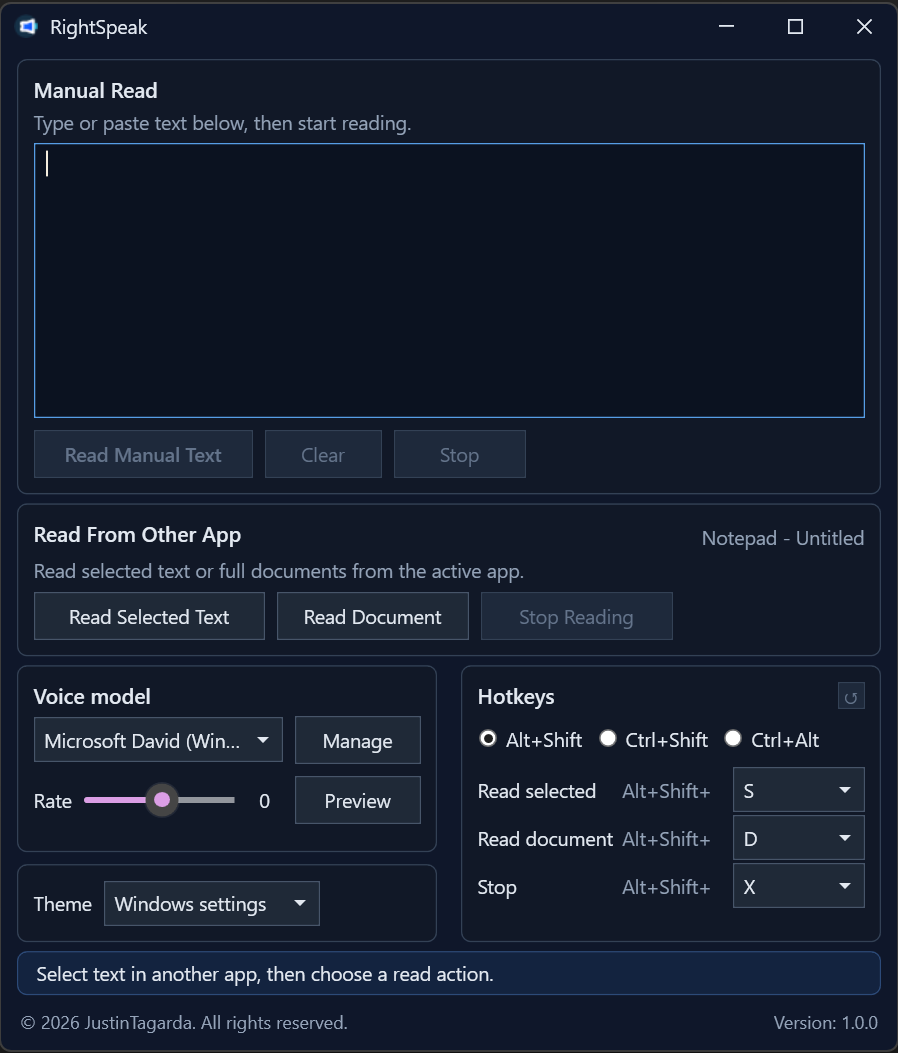
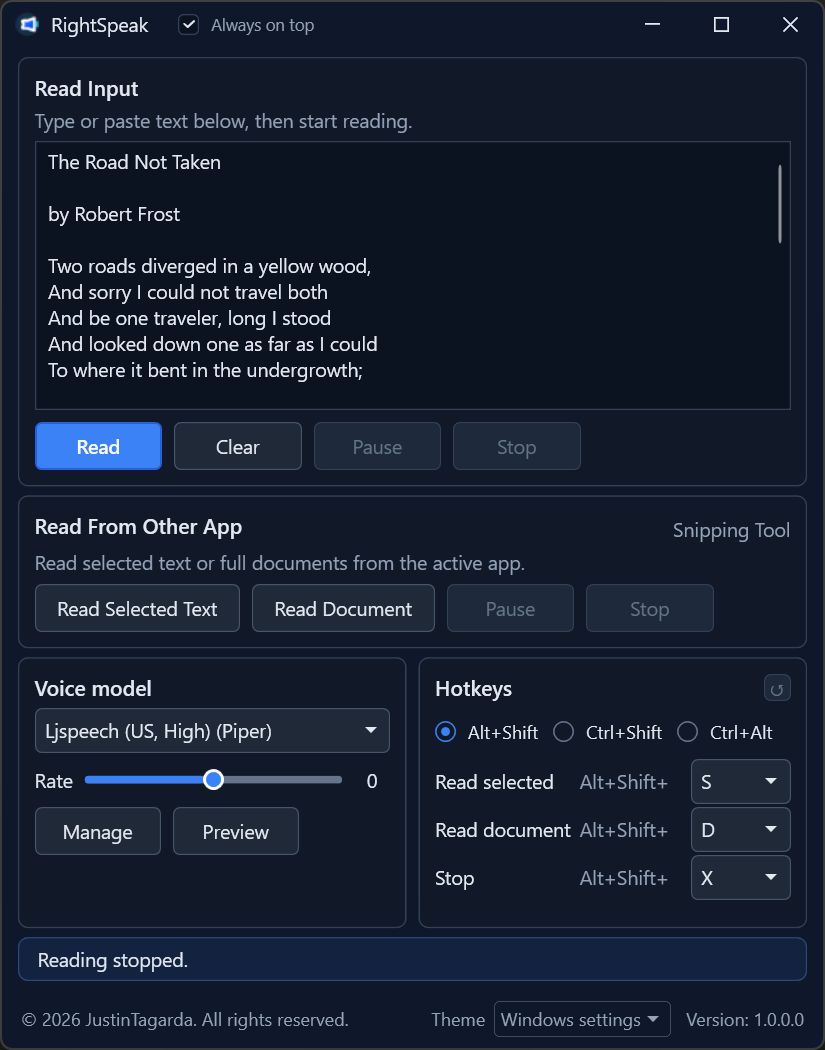
refactor: tighten featured project copy and refresh RightSpeak screenshots

Changed region(s): [[0.0, 0.0, 1.0, 1.0], [0.5455, 0.9448, 0.8182, 1.0], [0.3333, 0.8533, 0.3636, 0.8838]]

diff --git a/src/App.tsx b/src/App.tsx
@@ -68,17 +68,17 @@ const data = {
       featured: true,
       title: "RightSpeak",
       subtitle:
-        "Windows desktop text-to-speech utility that reads selected text with low friction, using reliable retrieval fallbacks, global hotkeys, tray quick actions, and configurable voice settings.",
+        "Listen instead of reading. RightSpeak brings selected text, supported documents, and pasted content to life with fast hotkeys, smooth controls, and natural voice options built for Windows.",
       browserLabel: "apps.microsoft.com",
       coverImage: rightspeakScreenshot01,
       coverAlt: "RightSpeak application screenshot",
       galleryImages: [rightspeakScreenshot01, rightspeakScreenshot02, rightspeakScreenshot03],
       bullets: [
-        "Reads selected text from other apps with staged retrieval fallbacks.",
-        "Supports manual text, selected-text, and document reading.",
-        "Provides global hotkeys, tray actions, and quick stop controls.",
-        "Supports downloadable voice models and preferred voice selection.",
-        "Includes speech-rate control, themes, and local diagnostics.",
+        "Read pasted, selected, and supported document text aloud.",
+        "Start fast with hotkeys and tray quick actions.",
+        "Control playback with pause, resume, cancel, and stop.",
+        "Choose voices, adjust speed, and manage Piper models.",
+        "Stay focused with a lightweight, always-on-top Windows design.",
       ],
       stack: ["WPF", ".NET 10", "C#", "MVVM", "Win32 interop", "UI Automation"],
       primaryLinkLabel: "Microsoft Store",
@@ -104,10 +104,10 @@ const data = {
         jobTrackerAiScreenshot05,
       ],
       bullets: [
-        "Capture job posts from screenshots, image files, and URLs.",
-        "Extract structured job details and flag likely duplicates before saving.",
-        "Track application status as Pending, Applied, or Declined, including decline reasons.",
-        "Generate and edit cover letters with optional OpenAI assistance, with local fallback and local record storage.",
+        "Capture job posts from screenshots, images, and URLs.",
+        "Extract key details and prevent duplicate saves.",
+        "Track status as Pending, Applied, or Declined.",
+        "Generate and edit cover letters with optional OpenAI and local fallback.",
       ],
       stack: ["WPF", ".NET 10", "C#", "Windows Forms interop", "WebView2", "Microsoft.Data.Sqlite"],
       primaryLinkLabel: "Microsoft Store",
@@ -127,11 +127,11 @@ const data = {
       coverAlt: "AudioScript application screenshot",
       galleryImages: [audioscriptScreenshot01, audioscriptScreenshot02, audioscriptScreenshot03, audioscriptScreenshot04],
       bullets: [
-        "Published on Microsoft Store for direct install and updates.",
-        "Transcribes both local audio files and live system playback capture.",
-        "Supports manual mode and OpenAI-assisted transcription with diarization.",
-        "Persists sessions for resume/reopen workflows and secures API keys via Windows Credential Manager.",
-        "Built with WPF (.NET 10), NAudio audio processing, and xUnit-tested core behavior.",
+        "Available on Microsoft Store for direct install and updates.",
+        "Transcribes local audio files and live system playback.",
+        "Supports manual and OpenAI-assisted transcription with diarization.",
+        "Saves sessions and secures API keys with Windows Credential Manager.",
+        "Built with WPF (.NET 10), NAudio, and xUnit-tested core behavior.",
       ],
       stack: ["WPF", ".NET 10", "C#", "NAudio", "OpenAI API", "xUnit"],
       primaryLinkLabel: "Microsoft Store",
@@ -159,9 +159,9 @@ const data = {
         memocardsScreenshot07,
       ],
       bullets: [
-        "Google sign-in with private, per-user study data and deck management.",
-        "AI-assisted flashcard generation from uploaded files or note photos using OCR and lesson parsing.",
-        "Voice audio question playback for listening-based review and accessibility.",
+        "Google sign-in with private per-user decks and study data.",
+        "Generate flashcards from files or note photos with OCR.",
+        "Use voice question playback for hands-free review.",
       ],
       stack: ["Next.js", "React", "TypeScript", "Supabase", "Postgres", "Google Cloud Vision", "Google Cloud Text-to-Speech"],
       links: {
@@ -188,12 +188,12 @@ const data = {
         productCostingScreenshot08,
       ],
       bullets: [
-        "Google OAuth sign-in + session persistence",
-        "Account-level sharing (owner/editor/viewer)",
-        "RLS + RPC enforced access control",
-        "Mobile/tablet-friendly editors for dense workflows",
-        "Costing engine: BOM rollups, weighted purchase costs, waste/markup/tax",
-        "Import/export tooling + audit history",
+        "Google OAuth sign-in with persistent sessions.",
+        "Account sharing with owner/editor/viewer roles.",
+        "RLS and RPC-backed access control.",
+        "Mobile/tablet-friendly editors for dense workflows.",
+        "Costing engine with BOM rollups, weighted costs, waste, markup, and tax.",
+        "Import/export tools with audit history.",
       ],
       stack: ["Next.js", "React", "TypeScript", "Tailwind", "Supabase", "Postgres"],
       links: {
@@ -218,11 +218,11 @@ const data = {
         gedacCompanyWebsiteScreenshot05,
       ],
       bullets: [
-        "Planned the site structure and built the full public-facing company web presence from the ground up.",
-        "Implemented frontend interactions using jQuery and vanilla JavaScript for lightweight, maintainable behavior.",
-        "Designed and styled page layouts with custom vanilla CSS tailored to the company brand and content.",
-        "Delivered and maintained the site on ASP.NET Framework with ongoing updates and operational support.",
-        "Live URL: http://gedac.com (currently HTTP-only due to the hosting certificate setup).",
+        "Planned and built the full public-facing company website.",
+        "Implemented interactions with jQuery and vanilla JavaScript.",
+        "Designed custom layouts and styling with vanilla CSS.",
+        "Delivered and maintained the site on ASP.NET Framework.",
+        "Live URL: http://gedac.com (currently HTTP-only).",
       ],
       stack: ["ASP.NET Framework", "jQuery", "JavaScript", "CSS", "HTML"],
       links: {
